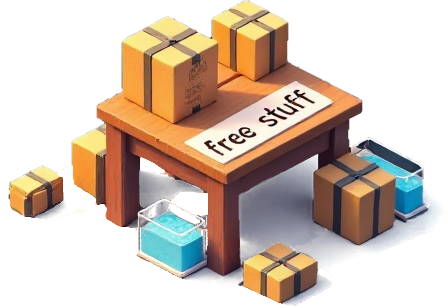
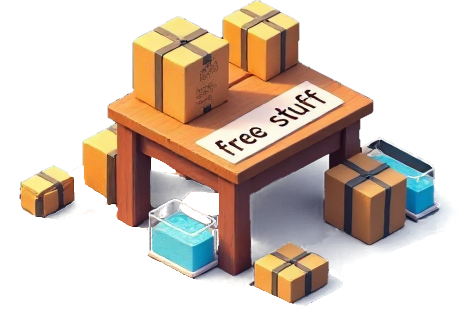
Adjust Free Stuff Tables graphics; make buildingCheat show hidden event buildings

Changed region(s): [[0.0, 0.0, 0.9688, 0.9935]]

diff --git a/src/game/BuildingTypes.ts b/src/game/BuildingTypes.ts
@@ -598,7 +598,7 @@ export class FreeStuffTable extends Building { //TODO: Might be another good eve
         this.inputResourceOptions = [new Toys(0, 0, 0.25), new Pharmaceuticals(0, 0, 0.25), new Clothing(0, 0, 0.5), new Furniture(0, 0, 0.5), new Batteries(0, 0, 0.75), new Paper(0, 0, 1.5)];
         this.outputResources = [new Happiness(0, 0.01, 0, 0)];
         this.checkFootprint[0][0] = FootprintType.LOGISTICS;
-        this.maxVariant = 1;
+        this.maxVariant = 2;
     }
 
     override placed(city: City): void {

diff --git a/src/debug.ts b/src/debug.ts
@@ -52,7 +52,7 @@ function resourceCheat() {
 function buildingsCheat() {
     console.log('Pay tribute!');
     for (const type of globalThis.game.city!.buildingTypes.values()) {
-        type.locked = false;
+        type.isHidden = type.locked = false;
     }
     globalThis.game.city!.enableResourceConstruction();
 }
